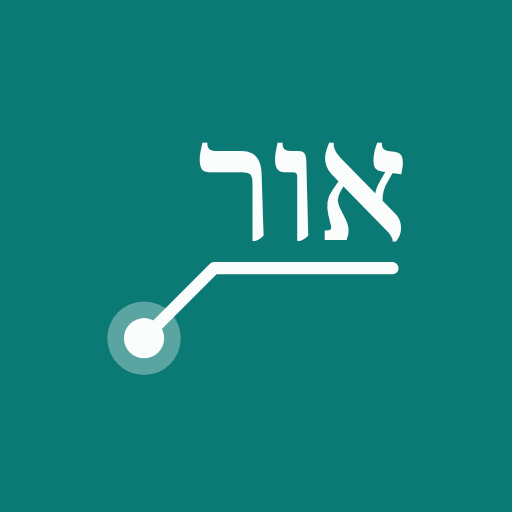
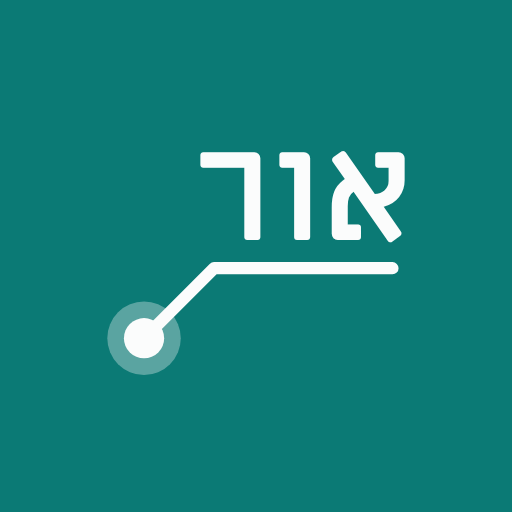
Title font: Miriam Libre for names, titles and the wordmark
The Noto Serif Hebrew change never showed: this Next's font loader ships
every subset of a Google font and its Times fallback regardless of
subsets/adjustFontFallback, so Frank Ruhl kept drawing the Hebrew. The user
picked Miriam Libre from real-page previews; one family covers Hebrew and
Latin, so font-serif is renamed font-title. The icon's "אור" is redrawn in it.

Claude-Session: https://claude.ai/code/session_013qRDtZwDDDEXwn4V8VJs27

Changed region(s): [[0.375, 0.2812, 0.8125, 0.4688]]

diff --git a/src/app/layout.tsx b/src/app/layout.tsx
@@ -1,30 +1,17 @@
 import type { Metadata, Viewport } from "next";
-import {
-  Frank_Ruhl_Libre,
-  IBM_Plex_Sans_Hebrew,
-  Noto_Serif_Hebrew,
-} from "next/font/google";
+import { IBM_Plex_Sans_Hebrew, Miriam_Libre } from "next/font/google";
 import { AnatomyDataProvider } from "@/components/providers/AnatomyDataProvider";
 import { ProgressProvider } from "@/components/providers/ProgressProvider";
 import { SettingsProvider } from "@/components/providers/SettingsProvider";
 import "./globals.css";
 
-// Serif for structure names and titles (atlas labels), sans for the UI.
-// Frank Ruhl Libre sets Latin only; Hebrew falls through to Noto Serif Hebrew
-// (Frank Ruhl's Hebrew read like "David"; user, 2026-10-08).
-const frank = Frank_Ruhl_Libre({
-  variable: "--font-frank",
-  subsets: ["latin"],
-  weight: ["400", "500", "700"],
-  // The generated metric fallback (local Times New Roman, no unicode-range)
-  // would catch Hebrew before Noto Serif Hebrew does.
-  adjustFontFallback: false,
-});
-
-const notoSerifHebrew = Noto_Serif_Hebrew({
-  variable: "--font-serif-hebrew",
-  subsets: ["hebrew"],
-  weight: ["400", "500", "600"],
+// Miriam Libre for structure names, titles and the wordmark (user's pick,
+// 2026-10-08, after Frank Ruhl's Hebrew read like "David"); sans for the UI.
+// One family that has both Hebrew and Latin: this Next's font loader ships
+// every subset of a font, so a Latin-only face can't hand Hebrew to another.
+const miriam = Miriam_Libre({
+  variable: "--font-miriam",
+  subsets: ["hebrew", "latin"],
 });
 
 const plex = IBM_Plex_Sans_Hebrew({
@@ -61,7 +48,7 @@ export default function RootLayout({ children }: LayoutProps<"/">) {
     <html
       lang="he"
       dir="rtl"
-      className={`${frank.variable} ${notoSerifHebrew.variable} ${plex.variable} h-full antialiased`}
+      className={`${miriam.variable} ${plex.variable} h-full antialiased`}
       suppressHydrationWarning
     >
       <body className="min-h-full font-sans">

diff --git a/scripts/brand/render-icons.ts b/scripts/brand/render-icons.ts
@@ -4,7 +4,7 @@
  *   npx tsx scripts/brand/render-icons.ts
  *
  * The mark is the app's own atlas label: a teal plate, a pin with a leader
- * line, and "אור" set on the line in Noto Serif Hebrew (loaded from Google
+ * line, and "אור" set on the line in Miriam Libre, the title font (loaded from Google
  * Fonts, so this needs network). Every file is full-bleed and keeps the mark
  * inside the maskable safe zone (the middle 80% circle), so iOS and Android
  * can round or crop it. docs/DESIGN.md → "App icon".
@@ -26,7 +26,7 @@ const MARK = `
     <circle cx="58" cy="182" r="21" fill="${INK}" fill-opacity="0.33"/>
     <circle cx="58" cy="182" r="11.5" fill="${INK}"/>
     <text x="149" y="126" text-anchor="middle" direction="rtl"
-      font-family="Noto Serif Hebrew" font-weight="600" font-size="86"
+      font-family="Miriam Libre" font-weight="600" font-size="86"
       fill="${INK}">אור</text>
   </g>
 </svg>`;
@@ -46,14 +46,14 @@ async function main() {
         viewport: { width: size, height: size },
       });
       await page.setContent(
-        `<html><head><link rel="stylesheet" href="https://fonts.googleapis.com/css2?family=Noto+Serif+Hebrew:wght@600&display=block"></head>
+        `<html><head><link rel="stylesheet" href="https://fonts.googleapis.com/css2?family=Miriam+Libre:wght@600&display=block"></head>
          <body style="margin:0">${MARK}</body></html>`,
       );
       await page.evaluate(() => document.fonts.ready);
       const ok = await page.evaluate(() =>
-        document.fonts.check('600 86px "Noto Serif Hebrew"', "אור"),
+        document.fonts.check('600 86px "Miriam Libre"', "אור"),
       );
-      if (!ok) throw new Error("Noto Serif Hebrew did not load");
+      if (!ok) throw new Error("Miriam Libre did not load");
       await mkdir(path.dirname(file), { recursive: true });
       await page.screenshot({ path: file, omitBackground: false });
       await page.close();

diff --git a/src/components/home/HomeView.tsx b/src/components/home/HomeView.tsx
@@ -43,7 +43,7 @@ export function HomeView() {
     >
       <div className="grid items-start gap-12 pt-4 md:grid-cols-[1.15fr_1fr] md:gap-16 md:pt-12">
         <section className="flex flex-col gap-6">
-          <h1 className="text-ink font-serif text-[40px] leading-[1.1] font-medium md:text-[48px]">
+          <h1 className="text-ink font-title text-[40px] leading-[1.1] font-medium md:text-[48px]">
             {t.home.welcomeTitle}
           </h1>
           <p className="text-graphite max-w-[46ch] text-[17px] leading-relaxed">
@@ -68,7 +68,7 @@ export function HomeView() {
         <section aria-labelledby="contents-heading">
           <h2
             id="contents-heading"
-            className="text-graphite mb-3 font-serif text-[19px]"
+            className="text-graphite font-title mb-3 text-[19px]"
           >
             {t.home.whatToStudy}
           </h2>
@@ -83,7 +83,7 @@ export function HomeView() {
                   }
                   className="group flex items-baseline justify-between gap-4 py-3.5"
                 >
-                  <span className="text-ink group-hover:text-scrub font-serif text-[20px] transition-colors">
+                  <span className="text-ink group-hover:text-scrub font-title text-[20px] transition-colors">
                     {t.regions[region]}
                   </span>
                   <span className="text-faint text-[14px] tabular-nums">

diff --git a/src/components/quiz/QuizSummary.tsx b/src/components/quiz/QuizSummary.tsx
@@ -34,7 +34,7 @@ export function QuizSummary({
         ) : (
           <>
             <div className="-mt-3 flex flex-col gap-1.5">
-              <h2 className="text-ink font-serif text-[28px] leading-tight font-medium">
+              <h2 className="text-ink font-title text-[28px] leading-tight font-medium">
                 {t.quiz.scoreLine(summary.correctFirstTry, summary.total)}
               </h2>
               {summary.correctAfterRetry > 0 && (
@@ -62,7 +62,7 @@ export function QuizSummary({
                     <li key={id}>
                       <Link
                         href={`/explore?structure=${id}`}
-                        className="hover:bg-wash block rounded-lg px-1 py-2.5 font-serif text-[16px]"
+                        className="hover:bg-wash font-title block rounded-lg px-1 py-2.5 text-[16px]"
                       >
                         <StructureLabel structureId={id} />
                       </Link>

diff --git a/src/components/progress/StructureProgressList.tsx b/src/components/progress/StructureProgressList.tsx
@@ -24,7 +24,7 @@ export function StructureProgressList({
   return (
     <section className="flex flex-col gap-3">
       <div className="flex items-center justify-between gap-2">
-        <h2 className="text-ink font-serif text-[20px]">{title}</h2>
+        <h2 className="text-ink font-title text-[20px]">{title}</h2>
         {action}
       </div>
       {items.length === 0 ? (
@@ -41,7 +41,7 @@ export function StructureProgressList({
                 >
                   <StructureLabel
                     structureId={item.structureId}
-                    className="group-hover:[&_bdi]:text-scrub flex-1 font-serif text-[17px]"
+                    className="group-hover:[&_bdi]:text-scrub font-title flex-1 text-[17px]"
                   />
                   <div
                     className="flex w-28 items-center gap-2"

diff --git a/src/components/quiz/QuizQuestionPanel.tsx b/src/components/quiz/QuizQuestionPanel.tsx
@@ -31,12 +31,12 @@ export function QuizQuestionPanel() {
         {question.type === "find" ? (
           <div className="flex flex-col gap-1">
             <p className="text-graphite text-[14px]">{t.quiz.findPrompt}</p>
-            <h2 className="font-serif text-[26px] leading-tight font-medium">
+            <h2 className="font-title text-[26px] leading-tight font-medium">
               <StructureLabel structureId={question.structureId} />
             </h2>
           </div>
         ) : (
-          <h2 className="font-serif text-[24px] leading-tight font-medium">
+          <h2 className="font-title text-[24px] leading-tight font-medium">
             {t.quiz.identifyPrompt}
           </h2>
         )}

diff --git a/src/components/progress/ProgressView.tsx b/src/components/progress/ProgressView.tsx
@@ -43,7 +43,7 @@ export function ProgressView() {
 
   return (
     <PageShell>
-      <h1 className="text-ink font-serif text-[40px] leading-tight font-medium">
+      <h1 className="text-ink font-title text-[40px] leading-tight font-medium">
         {t.progress.title}
       </h1>
       {status === "error" && (
@@ -67,7 +67,7 @@ export function ProgressView() {
               >
                 <dt className="text-graphite text-[15px]">{label}</dt>
                 <dd
-                  className="text-ink font-serif text-[22px] tabular-nums"
+                  className="text-ink font-title text-[22px] tabular-nums"
                   dir="ltr"
                 >
                   {value}

diff --git a/src/components/anatomy/structure/StructureHeader.tsx b/src/components/anatomy/structure/StructureHeader.tsx
@@ -33,11 +33,11 @@ export function StructureHeader({
           />
           {t.systems[structure.system]}, {t.regions[structure.region]}
         </p>
-        <h2 className="text-ink font-serif text-[26px] leading-[1.15] font-medium">
+        <h2 className="text-ink font-title text-[26px] leading-[1.15] font-medium">
           <TermText name={primary} />
         </h2>
         {secondary && (
-          <p className="text-graphite mt-1 font-serif text-[18px] leading-snug">
+          <p className="text-graphite font-title mt-1 text-[18px] leading-snug">
             <TermText name={secondary} />
           </p>
         )}

diff --git a/src/components/quiz/ScopeList.tsx b/src/components/quiz/ScopeList.tsx
@@ -43,7 +43,7 @@ function ScopeOption({
       />
       <span
         className={clsx(
-          "flex-1 font-serif text-[18px]",
+          "font-title flex-1 text-[18px]",
           selected ? "text-ink" : "text-graphite",
         )}
       >
@@ -76,7 +76,7 @@ export function ScopeList({ scopes, selectedId, onSelect }: ScopeListProps) {
 
   return (
     <fieldset className="flex flex-col gap-6">
-      <legend className="text-graphite mb-3 font-serif text-[19px]">
+      <legend className="text-graphite font-title mb-3 text-[19px]">
         {t.quiz.scope}
       </legend>
       {groups.map((group) => (

diff --git a/src/components/anatomy/structure/StructureRelations.tsx b/src/components/anatomy/structure/StructureRelations.tsx
@@ -32,7 +32,7 @@ export function StructureRelations({
             <button
               type="button"
               onClick={() => useViewerStore.getState().select(row.id)}
-              className="hover:bg-wash flex min-h-10 w-full items-center px-2 py-1.5 text-start font-serif text-[16px] transition-colors"
+              className="hover:bg-wash font-title flex min-h-10 w-full items-center px-2 py-1.5 text-start text-[16px] transition-colors"
             >
               <StructureLabel structureId={row.id} />
             </button>

diff --git a/src/components/anatomy/structure/StructureAttachments.tsx b/src/components/anatomy/structure/StructureAttachments.tsx
@@ -18,7 +18,7 @@ function NameLink({ structure }: { structure: AnatomicalStructure }) {
     <button
       type="button"
       onClick={() => useViewerStore.getState().select(structure.id)}
-      className="text-ink decoration-rule hover:decoration-ink min-h-8 text-start font-serif text-[16px] underline underline-offset-4"
+      className="text-ink decoration-rule hover:decoration-ink font-title min-h-8 text-start text-[16px] underline underline-offset-4"
     >
       <TermText name={primary} showVerification={false} />
     </button>

diff --git a/src/components/anatomy/structure/StructureNotes.tsx b/src/components/anatomy/structure/StructureNotes.tsx
@@ -24,7 +24,7 @@ export function StructureNotes({
           <div key={`${i}|${note.term}`}>
             {/* An entry about more than this structure says which one it is. */}
             {note.shared && (
-              <p className="text-graphite font-serif text-[14px]">
+              <p className="text-graphite font-title text-[14px]">
                 {/* Her entry names are English, sometimes with her Hebrew. */}
                 <bdi lang={HEBREW.test(note.term) ? undefined : "en"}>
                   {note.term}
